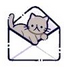
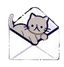
fix: mail in component

Changed region(s): [[0.0938, 0.0896, 0.9688, 0.9254], [0.3438, 0.209, 0.375, 0.2388]]

diff --git a/portfolio-2026-2/components/Contact.tsx b/portfolio-2026-2/components/Contact.tsx
@@ -1,0 +1,72 @@
+"use client";
+import styles from './contact.module.css';
+
+import { useState, type FormEvent } from "react";
+
+export default function Contact() {
+  const [name, setName] = useState("");
+  const [message, setMessage] = useState("");
+  const [isOpen, setIsOpen] = useState(false);
+
+  const handleSubmit = (event: FormEvent<HTMLFormElement>) => {
+    event.preventDefault();
+
+    const emailClara = "marchal.clara95@gmail.com";
+    const sujet = `Message from Portfolio Contact Form - ${name}`;
+
+    const corpsMessage =
+      `Bonjour Clara\n\n` +
+      `${message}\n\n` +
+      `Cordialement,\n` +
+      `${name}`;
+
+    window.location.href = `mailto:${emailClara}?subject=${encodeURIComponent(sujet)}&body=${encodeURIComponent(corpsMessage)}`;
+  };
+
+  const toggleMailForm = () => {
+    setIsOpen((prev) => !prev);
+  };
+
+  return (
+    <>
+      <button
+        className={styles.mailButton}
+        onClick={toggleMailForm}
+        aria-expanded={isOpen}
+        aria-controls="contactContainer"
+      >
+        <img id="mail" className={styles.mail} src="/asset/mail.png" alt="button mail" />
+      </button>
+
+      {isOpen && (
+        <div className={styles.container} id="contactContainer">
+          <h1>Contact</h1>
+          <form onSubmit={handleSubmit} className="flex flex-col gap-4">
+            <label className={styles.label} htmlFor="name">Nom :</label>
+            <input
+              id="name"
+              type="text"
+              name="name"
+              placeholder="Votre nom"
+              value={name}
+              onChange={(e) => setName(e.target.value)}
+              required
+            />
+
+            <label className={styles.label} htmlFor="message">Message :</label>
+            <textarea
+              name="message"
+              id="message"
+              placeholder="Votre message"
+              value={message}
+              onChange={(e) => setMessage(e.target.value)}
+              required
+            />
+
+            <button type="submit" className="button">Envoyer directement depuis votre boite mail</button>
+          </form>
+        </div>
+      )}
+    </>
+  );
+}

diff --git a/portfolio-2026-2/components/contact.module.css b/portfolio-2026-2/components/contact.module.css
@@ -3,15 +3,18 @@
     font-size: 20px
 }
 .container {
-  justify-content: center;
-  max-width: 450px;
-  margin: 50px auto;
+  position: fixed;
+  top: 50%;
+  left: 50%;
+  transform: translate(-50%, -50%);
+  width: min(100%, 450px);
   padding: 40px;
   background: rgba(255, 255, 255, 0.05); /* Effet verre */
   backdrop-filter: blur(10px);
   border-radius: 20px;
   border: 1px solid rgba(255, 255, 255, 0.1);
   box-shadow: 0 25px 50px -12px rgba(0, 0, 0, 0.5);
+  z-index: 1000;
 }
 
 .container h1 {
@@ -87,4 +90,16 @@
 @keyframes fadeIn {
   from { opacity: 0; transform: translateY(10px); }
   to { opacity: 1; transform: translateY(0); }
+}
+.mail{
+  width: 100px;
+}
+.mailButton{
+  background-color: transparent;
+  border: none;
+  cursor: pointer;
+  position: fixed;
+  bottom: 20px;
+  right: 20px;
+  z-index: 1000;
 }

diff --git a/portfolio-2026-2/components/Nav.tsx b/portfolio-2026-2/components/Nav.tsx
@@ -1,8 +1,7 @@
 "use client";
- 
 import Link from "next/link";
+import Contact from "@/components/Contact";
 
- 
 export default function Nav() {
 
   return (
@@ -15,10 +14,9 @@ export default function Nav() {
 
     <Link href="/about" className="lien_page">About Me</Link>
 
-    <Link href="/contact" className="lien_page" >Contact</Link>
-
     </nav>
     
+    <Contact />
     
     </>
   
